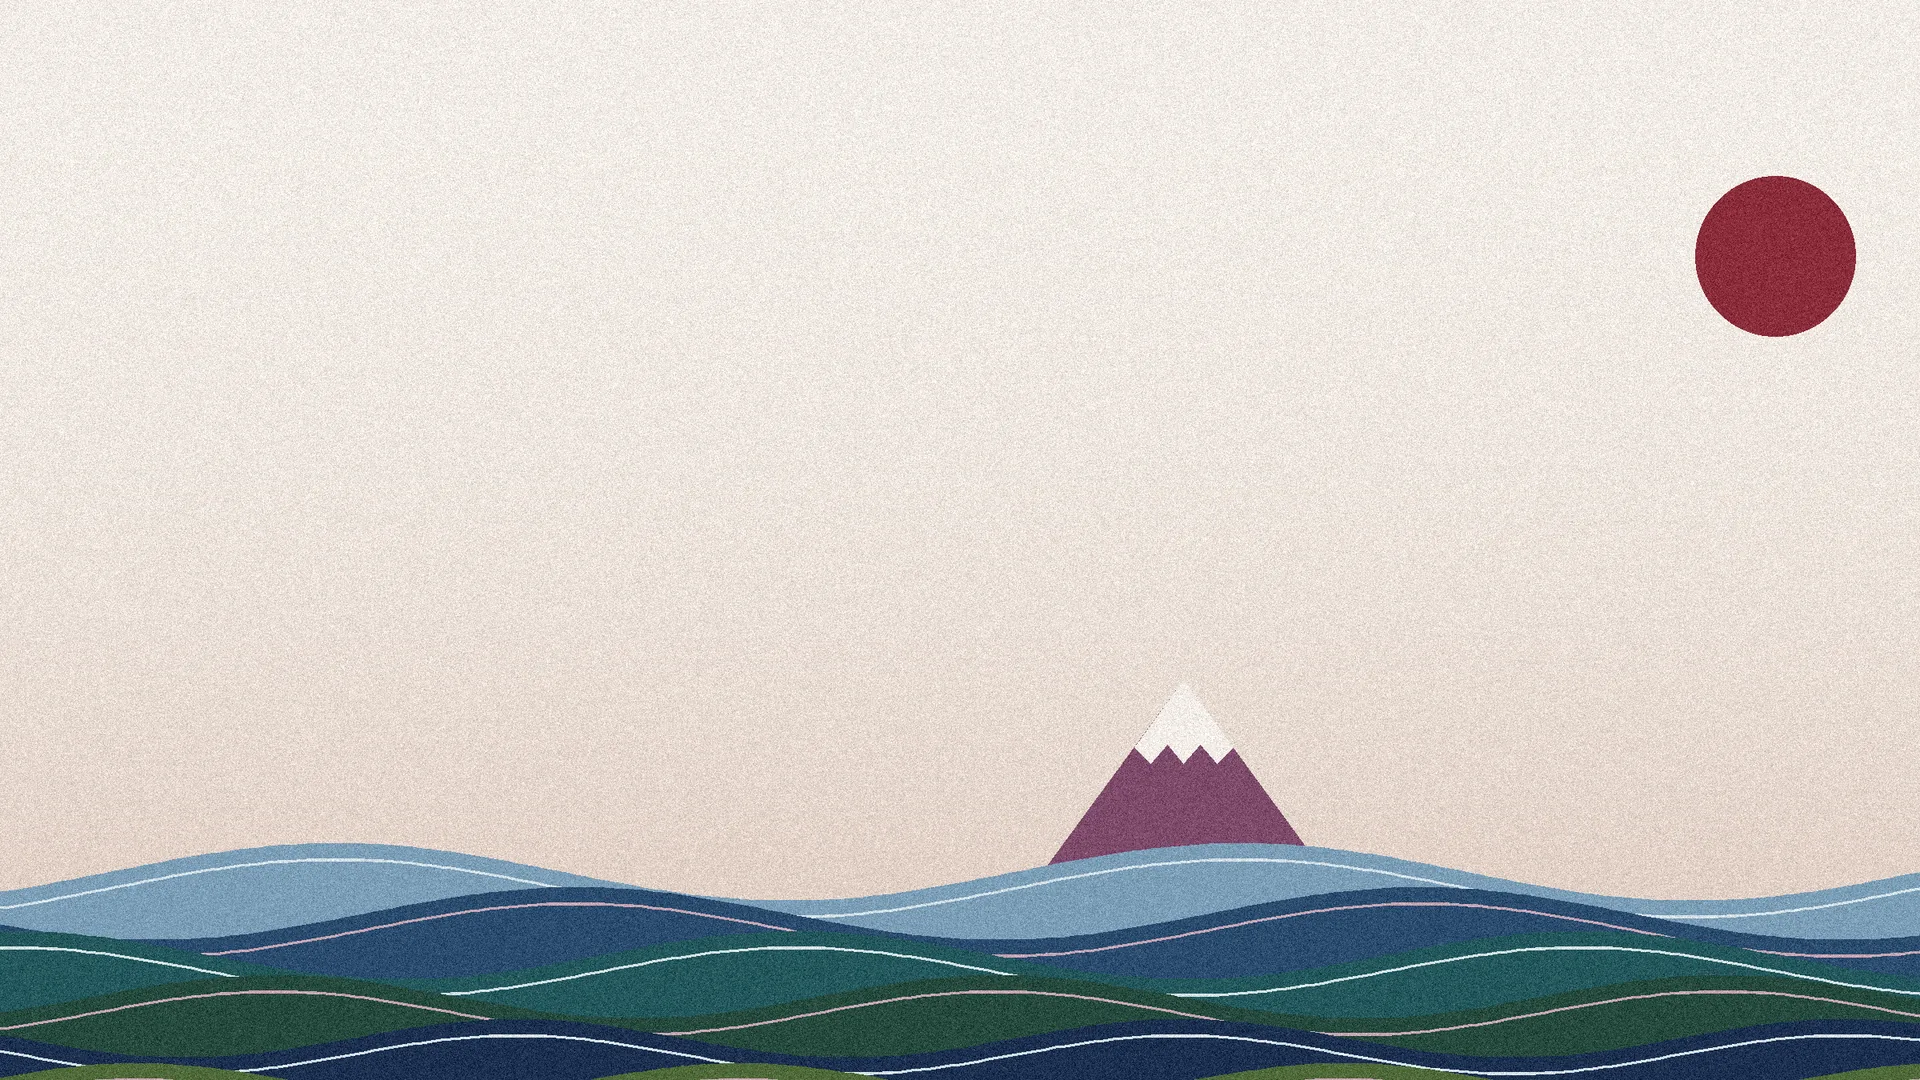
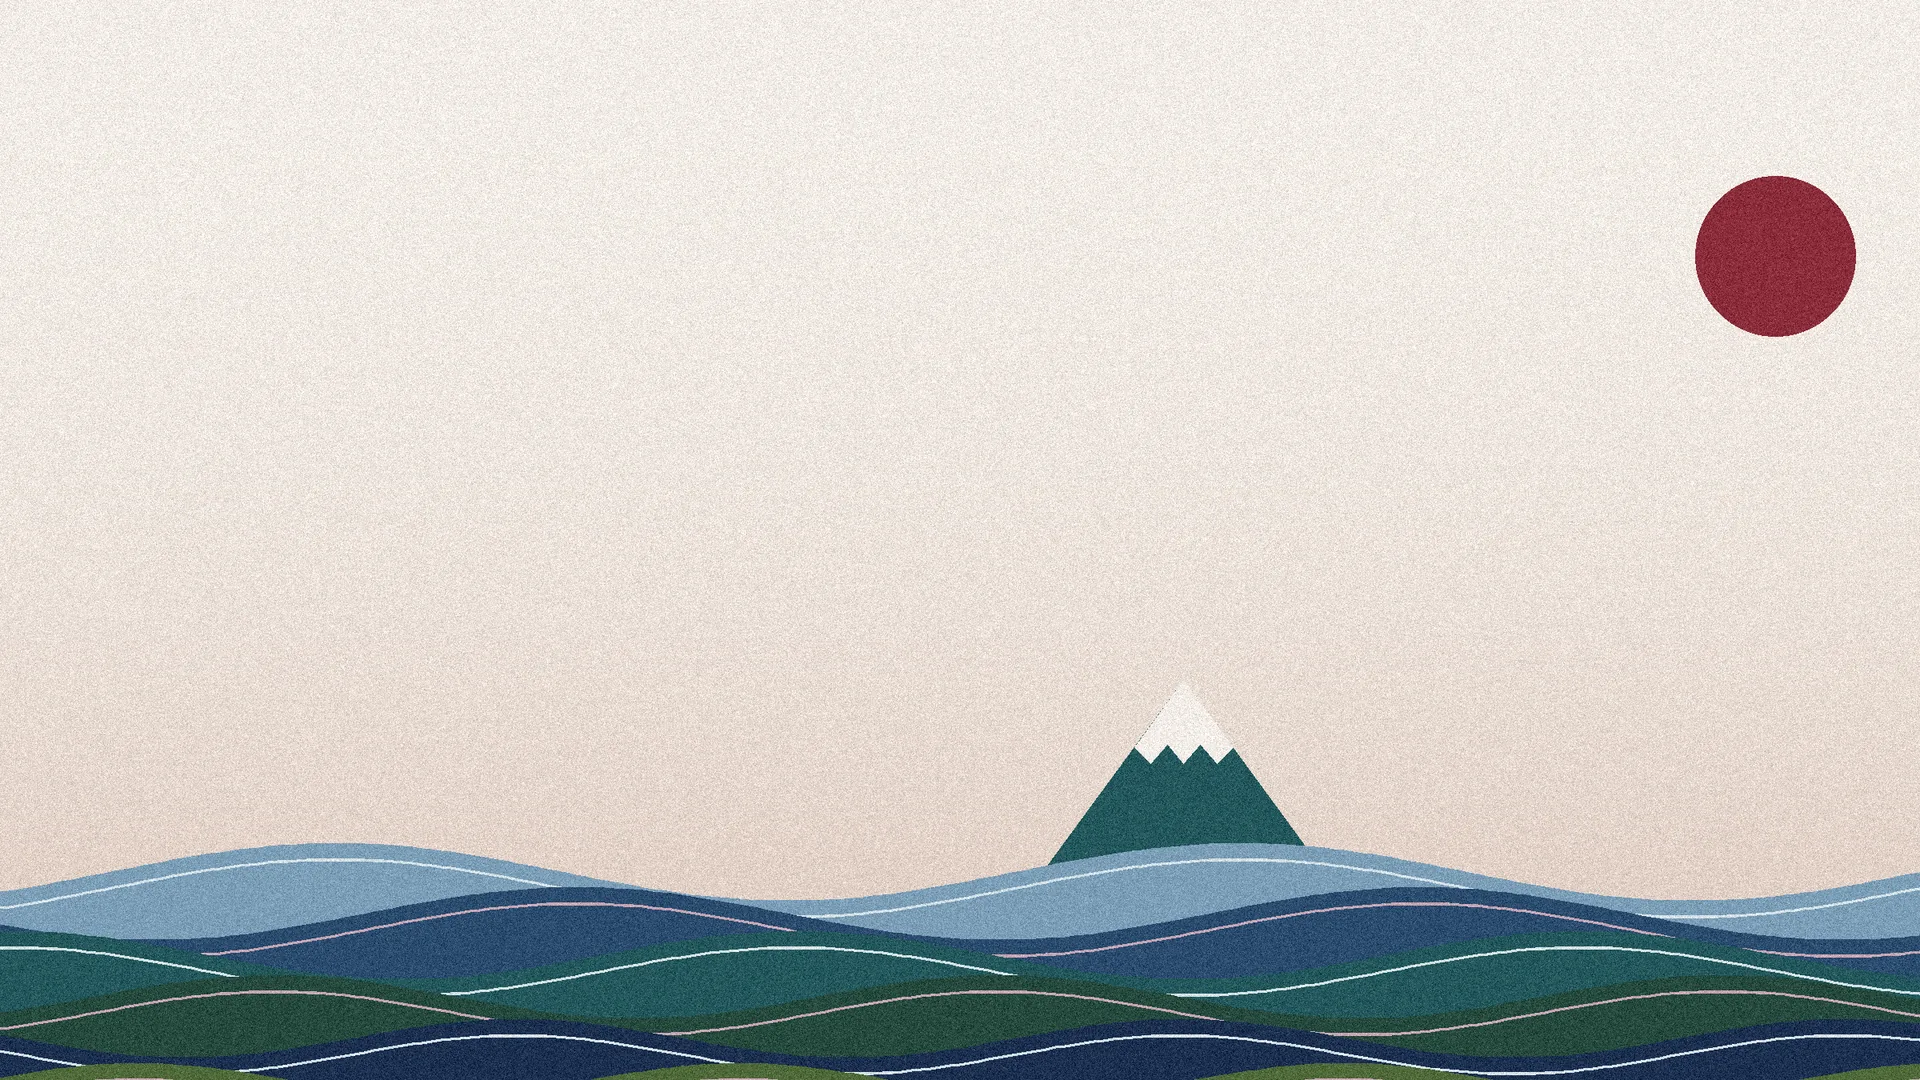
Hero mountain in teal instead of plum
Claude-Session: https://claude.ai/code/session_01CPFfiZz4rjPwAdTY8Ptavd

Changed region(s): [[0.5312, 0.6722, 0.6875, 0.7944]]

diff --git a/art/blog/banners_tall.py b/art/blog/banners_tall.py
@@ -96,7 +96,7 @@ print('done 7')
 # 7b Option 7 with the sun placed like 5b: wine sun high in the open sky, plum mountain under the curl
 im = canvas(c['paper'], c['clay'], 2)
 disc(im, 1200 - 1110, 160, 50, c['wine'])
-mountain(im, 350, 570, 460, 425, 575, c['plum'], snow=c['paper'])
+mountain(im, 350, 570, 460, 425, 575, c['teal'], snow=c['paper'])
 bands(im)
 wave(im, 10, 110, 0.6, c['indigo'], c['skyb'], c['mist'], seed=5, soft=True, parallel=True)
 bands(im, start=1)

diff --git a/art/blog/banner_layers.py b/art/blog/banner_layers.py
@@ -46,7 +46,7 @@ def save(im, name, seed, amt=14, alpha=False, size=(1920, 1080)):
 # background: the full static scene minus the wave
 im = canvas(c['paper'], c['clay'], 2)
 disc(im, 1200 - 1110, 160, 50, c['wine'])
-mountain(im, 350, 570, 460, 425, 575, c['plum'], snow=c['paper'])
+mountain(im, 350, 570, 460, 425, 575, c['teal'], snow=c['paper'])
 for i in range(len(cols)):
     band(im, i)
 save(im, 'bg.webp', 7)
